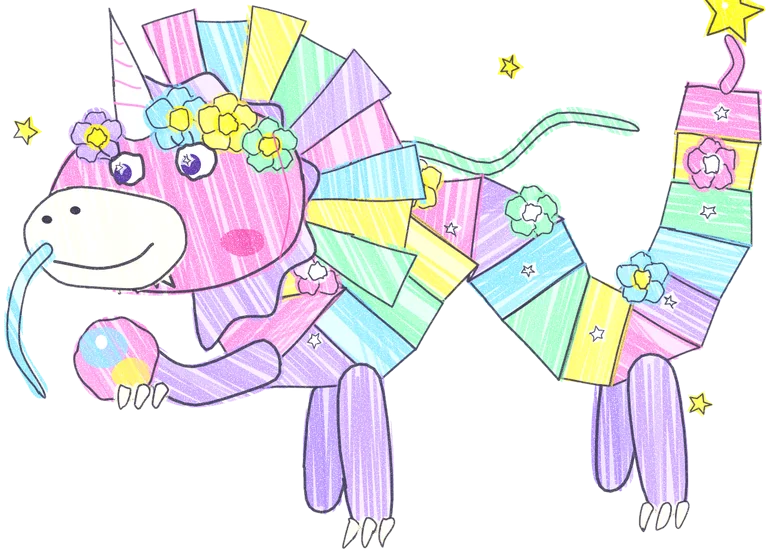
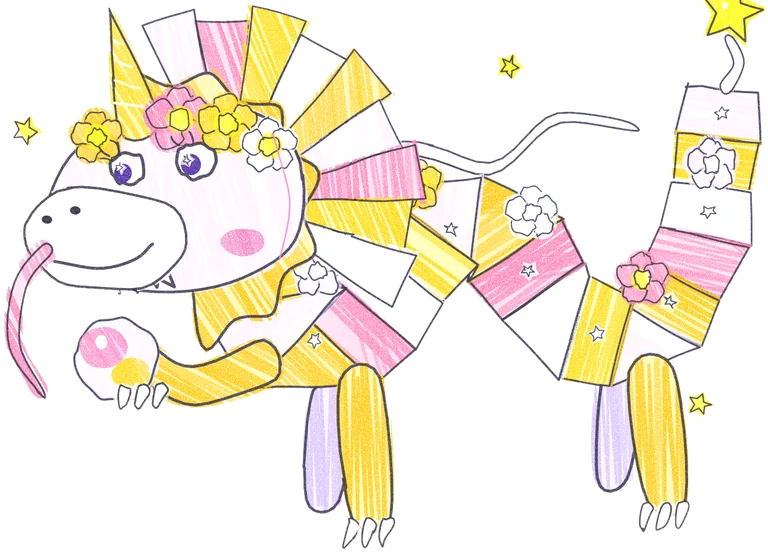
Paint the fairy dragon in pearl and gold
Its pastel colours were the very ones of Libellune's stained glass. The
owner picked pearl and gold from three palettes; the three stages now
share one palette (DRAGON in tools/redraws/plissou.ts).

diff --git a/tools/redraws/festivouivre.ts b/tools/redraws/festivouivre.ts
@@ -1,6 +1,6 @@
 import type { Crayon, P, Redraw } from './crayon.ts';
 import { star } from './lumignon.ts';
-import { accordion, charm, flower, horn } from './plissou.ts';
+import { DRAGON, accordion, charm, flower, horn } from './plissou.ts';
 
 /** A pleated paper fan opening from (x, y), from angle a0 to a1 (degrees), its folds in turn of colour. */
 function fan(c: Crayon, x: number, y: number, r: number, a0: number, a1: number, cols: string[]) {
@@ -14,7 +14,7 @@ function fan(c: Crayon, x: number, y: number, r: number, a0: number, a1: number,
 
 /**
  * Plisserpent grown into a great fairy parade dragon turned to the left: a long, thick accordion body dancing in
- * a wave, rainbow pastel folds with sparkles and paper flowers all along, a pleated paper fan opening behind its
+ * a wave, pearl, gold and rose folds with sparkles and paper flowers all along, a pleated paper fan opening behind its
  * head, four legs with cream claws, a big unicorn horn in a crown of flowers, a cream beard, long ribbons streaming,
  * and the dragon's rainbow pearl held in a front claw.
  */
@@ -22,39 +22,38 @@ export default {
   id: '086', slug: 'festivouivre', seed: 8601, size: [1300, 1150], tilt: -2,
   draw(c) {
     const { shape, stroke, dot, band, potato, spikes } = c;
-    const PINK = '#f28dc0', LILAC = '#b99be8', SKY = '#8fcdf2', MINT = '#94dcaa', BUTTER = '#f9dc6a', CREAM = '#fff0d2';
-    const STAR = '#f7dc35', DEEP = '#d0619d', LEG = '#a385dc';
+    const { BODY, MANE, ACCENT, ACCENT2, ACCENT3, CREAM, STAR, DEEP, LEG_FAR, HORN, STRIPE } = DRAGON;
     // ribbons streaming behind, from the back of its head
-    shape(band([[560, 300], [700, 250], [840, 290], [960, 210], [1080, 230]], 28, 14), MINT, { over: 0 }, { w: 3 });
+    shape(band([[560, 300], [700, 250], [840, 290], [960, 210], [1080, 230]], 28, 14), ACCENT2, { over: 0 }, { w: 3 });
     // the far legs, behind
-    shape(band([[1050, 640], [1030, 820]], 60, 52), LEG, { angle: 90, over: 0 });
-    shape(band([[560, 660], [540, 840]], 60, 52), LEG, { angle: 90, over: 0 });
+    shape(band([[1050, 640], [1030, 820]], 60, 52), LEG_FAR, { angle: 90, over: 0 });
+    shape(band([[560, 660], [540, 840]], 60, 52), LEG_FAR, { angle: 90, over: 0 });
     // the long thick body dancing in a wave, tail first: rainbow folds, sparkles and stars along it
     const body: P[] = [[1240, 170], [1200, 420], [1090, 600], [960, 560], [860, 400], [740, 380], [640, 500], [540, 600], [460, 520], [440, 420]];
-    accordion(c, body, 17, 120, 220, [PINK, BUTTER, MINT, SKY, LILAC], (k, [x, y], w) => {
+    accordion(c, body, 17, 120, 220, [BODY, ACCENT3, ACCENT2, ACCENT, MANE], (k, [x, y], w) => {
       if (k % 2 === 0) shape(star(x, y, 12, k * 0.4), '#ffffff', { over: 0, wash: 1 }, { w: 2 }, false);
-      if (k % 3 === 2) flower(c, x + 8, y - w / 2 - 8, 40, [PINK, SKY, MINT, BUTTER][((k / 3) | 0) % 4], k % 2 ? STAR : '#ffffff');
+      if (k % 3 === 2) flower(c, x + 8, y - w / 2 - 8, 40, [BODY, ACCENT, ACCENT2, ACCENT3][((k / 3) | 0) % 4], k % 2 ? STAR : '#ffffff');
     });
-    charm(c, 1240, 170, 1.4, STAR, PINK);
+    charm(c, 1240, 170, 1.4, STAR, BODY);
     // the near legs, cream claws
     for (const [x0, y0, x1, y1] of [[1100, 640, 1120, 860], [610, 640, 620, 870]] as const) {
-      shape(band([[x0, y0], [x1, y1]], 70, 62), LILAC, { angle: 90, over: 0 });
+      shape(band([[x0, y0], [x1, y1]], 70, 62), MANE, { angle: 90, over: 0 });
       for (const dx of [-30, 0, 30]) shape(band([[x1 + dx, y1 + 10], [x1 + dx - 14, y1 + 46]], 18, 8), CREAM, { over: 0 }, { w: 3 });
     }
     // a pleated paper fan opening behind its head like a frill, then the scalloped mane
-    fan(c, 400, 330, 330, -115, 35, [PINK, SKY, BUTTER, MINT, LILAC]);
+    fan(c, 400, 330, 330, -115, 35, [BODY, ACCENT, ACCENT3, ACCENT2, MANE]);
     const mane: P[] = [];
     for (let k = 0; k <= 12; k++) { const a = -1.9 + k * 0.28, r = k % 2 ? 205 : 235; mane.push([320 + Math.cos(a) * r, 340 + Math.sin(a) * r]); }
-    shape([...mane, [320, 340]], LILAC, { angle: 60, over: 0 });
+    shape([...mane, [320, 340]], MANE, { angle: 60, over: 0 });
     // the far front leg holding up the rainbow pearl
-    shape(band([[460, 600], [330, 640], [250, 600]], 66, 56), LILAC, { angle: 30, over: 0 });
-    shape(potato(200, 590, 70, 70, 12, 0.03), PINK, { angle: 60, over: 0 }, { w: 4 });
-    c.tint(potato(180, 570, 40, 36, 8, 0.1), SKY, { gap: 3.2 });
-    c.tint(potato(225, 615, 32, 28, 8, 0.1), BUTTER, { gap: 3.2 });
+    shape(band([[460, 600], [330, 640], [250, 600]], 66, 56), MANE, { angle: 30, over: 0 });
+    shape(potato(200, 590, 70, 70, 12, 0.03), BODY, { angle: 60, over: 0 }, { w: 4 });
+    c.tint(potato(180, 570, 40, 36, 8, 0.1), ACCENT, { gap: 3.2 });
+    c.tint(potato(225, 615, 32, 28, 8, 0.1), ACCENT3, { gap: 3.2 });
     dot(175, 560, 10, 12, '#ffffff');
     for (const dx of [-36, -6, 24]) shape(band([[250 + dx, 640], [240 + dx, 670]], 18, 8), CREAM, { over: 0 }, { w: 3 });
     // the big head: long snout, cream muzzle and a soft cream beard, a rosy cheek
-    shape([[90, 330], [150, 230], [290, 170], [440, 180], [520, 270], [510, 400], [420, 460], [270, 480], [130, 450], [70, 390]], PINK, { angle: 75, over: 0.55, press: 1.05 });
+    shape([[90, 330], [150, 230], [290, 170], [440, 180], [520, 270], [510, 400], [420, 460], [270, 480], [130, 450], [70, 390]], BODY, { angle: 75, over: 0.55, press: 1.05 });
     shape(spikes([[300, 470], [210, 480], [130, 460]], 3, 50).concat([[220, 440]]), CREAM, { angle: 90, over: 0 }, {}, false);
     shape([[60, 350], [130, 300], [290, 330], [320, 410], [250, 470], [120, 460], [60, 410]], CREAM, { angle: 80, over: 0.2 }, { w: 4 });
     c.tint(potato(420, 400, 36, 24, 8, 0.1), DEEP, { gap: 3 });
@@ -62,8 +61,8 @@ export default {
     dot(138, 336, 9, 7);
     stroke([[100, 420], [170, 438], [240, 420], [270, 400]], { w: 5 });
     // a big unicorn horn, and a crown of paper flowers round it
-    horn(c, [250, 200], [215, 20], 66, '#fff6e6', PINK);
-    for (const [x, y, r, col] of [[320, 190, 50, SKY], [400, 200, 46, BUTTER], [470, 240, 42, MINT], [180, 215, 40, LILAC]] as const) flower(c, x, y, r, col, STAR);
+    horn(c, [250, 200], [215, 20], 66, HORN, STRIPE);
+    for (const [x, y, r, col] of [[320, 190, 50, ACCENT], [400, 200, 46, ACCENT3], [470, 240, 42, ACCENT2], [180, 215, 40, MANE]] as const) flower(c, x, y, r, col, STAR);
     // starry eyes, lashes, sure of itself
     c.paper(potato(230, 270, 30, 26, 8, 0.05));
     c.paper(potato(345, 260, 34, 30, 8, 0.05));
@@ -73,7 +72,7 @@ export default {
     shape(star(330, 258, 9, 0.3), '#ffffff', { over: 0, wash: 1 }, { w: 1.5 }, false);
     for (const [x0, y0, x1, y1] of [[200, 250, 186, 232], [218, 245, 212, 226], [318, 236, 306, 216], [340, 231, 336, 210]] as const) stroke([[x0, y0], [x1, y1]], { w: 3.5 });
     // long whiskers, ribbons floating down
-    shape(band([[90, 400], [40, 460], [30, 560], [70, 640]], 24, 12), SKY, { over: 0 }, { w: 3 });
+    shape(band([[90, 400], [40, 460], [30, 560], [70, 640]], 24, 12), ACCENT, { over: 0 }, { w: 3 });
     stroke([[480, 220], [500, 330], [480, 430]], { w: 3, col: DEEP });
     // sparkles round it
     for (const [x, y, r] of [[60, 200, 22], [140, 760, 18], [1180, 700, 20], [880, 120, 18]] as const) shape(star(x, y, r, 0.4), STAR, { over: 0 }, { w: 2.5 }, false);

diff --git a/tools/redraws/plissou.ts b/tools/redraws/plissou.ts
@@ -43,6 +43,16 @@ export function charm(c: Crayon, x: number, y: number, s: number, col: string, r
   c.dot(x + 4 * s, y - 100 * s, 4 * s, 4 * s, '#ffffff');
 }
 
+/**
+ * The fairy paper dragon's colours, shared by its three stages (Plissou, Plisserpent, Festivouivre): pearl and gold
+ * (the owner picked them; pastels were too close to Libellune's stained glass). The body and head, the mane and legs,
+ * three accents (whiskers, flowers, folds), the muzzle, cheeks, far legs and the horn.
+ */
+export const DRAGON = {
+  BODY: '#e6daf6', MANE: '#e8b93a', ACCENT: '#f08aa6', ACCENT2: '#ffffff', ACCENT3: '#f2c43a', CREAM: '#fff8e6',
+  STAR: '#f7dc35', DEEP: '#d58aa8', LEG_FAR: '#c4b2e6', HORN: '#f2c43a', STRIPE: '#ffffff',
+};
+
 /** A unicorn's spiral horn from `base` to `tip`, striped like a candy stick. */
 export function horn(c: Crayon, base: P, tip: P, w: number, col: string, stripe: string) {
   c.shape(c.band([base, tip], w, 6), col, { angle: 60, over: 0 }, { w: 3.5 });
@@ -65,40 +75,40 @@ export function flower(c: Crayon, x: number, y: number, r: number, petal: string
 }
 
 /**
- * A baby fairy dragon folded out of pastel tissue paper, turned to the left: a big round pink head with a cream
- * muzzle, a little striped unicorn horn, a paper flower by its ear, a soft scalloped mane, big starry eyes, a short
- * accordion body of pink and lilac folds and a star charm at the end of its tail, like a magic wand.
+ * A baby fairy dragon folded out of pearly paper, turned to the left: a big round pearl-white head with a cream
+ * muzzle, a little striped gold unicorn horn, a paper flower by its ear, a soft gold mane, big starry eyes, a short
+ * accordion body of pearl and gold folds and a star charm at the end of its tail, like a magic wand.
  */
 export default {
   id: '084', slug: 'plissou', seed: 8401, size: [1000, 880], tilt: -3,
   draw(c) {
     const { shape, stroke, dot, band, potato } = c;
-    const PINK = '#f28dc0', LILAC = '#b99be8', CREAM = '#fff0d2', SKY = '#8fcdf2', STAR = '#f7dc35', DEEP = '#d0619d';
+    const { BODY, MANE, ACCENT, CREAM, STAR, DEEP, HORN, STRIPE } = DRAGON;
     // the short accordion body, tail first, and the star charm at the tip of its tail
-    accordion(c, [[880, 380], [810, 470], [690, 520], [470, 480]], 7, 110, 170, [PINK, LILAC]);
-    charm(c, 890, 380, 1, STAR, SKY);
+    accordion(c, [[880, 380], [810, 470], [690, 520], [470, 480]], 7, 110, 170, [BODY, MANE]);
+    charm(c, 890, 380, 1, STAR, ACCENT);
     // little paws under it
-    shape(band([[620, 560], [630, 640]], 44, 40), LILAC, { angle: 90, over: 0 });
+    shape(band([[620, 560], [630, 640]], 44, 40), MANE, { angle: 90, over: 0 });
     shape(potato(640, 650, 34, 20, 7, 0.06), CREAM, { over: 0 });
-    shape(band([[460, 560], [450, 650]], 48, 44), LILAC, { angle: 90, over: 0 });
+    shape(band([[460, 560], [450, 650]], 48, 44), MANE, { angle: 90, over: 0 });
     shape(potato(440, 660, 38, 22, 7, 0.06), CREAM, { over: 0 });
     // a soft scalloped mane round the back of its head, and the far horn, behind
     const mane: P[] = [];
     for (let k = 0; k <= 10; k++) { const a = -1.9 + k * 0.33, r = k % 2 ? 205 : 230; mane.push([360 + Math.cos(a) * r, 400 + Math.sin(a) * r]); }
-    shape([...mane, [360, 400]], LILAC, { angle: 60, over: 0 });
+    shape([...mane, [360, 400]], MANE, { angle: 60, over: 0 });
     // the big round head, a cream muzzle, rosy cheeks
-    shape(potato(340, 400, 200, 175, 12, 0.04), PINK, { angle: 75, over: 0.5 });
+    shape(potato(340, 400, 200, 175, 12, 0.04), BODY, { angle: 75, over: 0.5 });
     shape([[150, 430], [200, 390], [320, 420], [360, 500], [300, 560], [190, 560], [140, 500]], CREAM, { angle: 80, over: 0.2 }, { w: 4 });
     c.tint(potato(395, 470, 34, 22, 8, 0.1), DEEP, { gap: 3 });
     dot(175, 440, 8, 6);
     dot(225, 432, 8, 6);
     stroke([[180, 515], [230, 532], [280, 518]], { w: 4.5 });
     // short ribbon whiskers
-    shape(band([[160, 465], [100, 445], [60, 480], [50, 530]], 22, 12), SKY, { over: 0 }, { w: 3 });
-    shape(band([[170, 525], [110, 555], [95, 600], [110, 640]], 22, 12), SKY, { over: 0 }, { w: 3 });
+    shape(band([[160, 465], [100, 445], [60, 480], [50, 530]], 22, 12), ACCENT, { over: 0 }, { w: 3 });
+    shape(band([[170, 525], [110, 555], [95, 600], [110, 640]], 22, 12), ACCENT, { over: 0 }, { w: 3 });
     // a little unicorn horn on its brow, a paper flower by its ear
-    horn(c, [300, 250], [270, 130], 46, '#fff6e6', PINK);
-    flower(c, 430, 255, 46, SKY, STAR);
+    horn(c, [300, 250], [270, 130], 46, HORN, STRIPE);
+    flower(c, 430, 255, 46, ACCENT, STAR);
     // big starry eyes with lashes, looking left
     c.paper(potato(250, 330, 34, 38, 8, 0.05));
     c.paper(potato(360, 320, 38, 42, 8, 0.05));

diff --git a/tools/redraws/plisserpent.ts b/tools/redraws/plisserpent.ts
@@ -1,49 +1,49 @@
 import type { P, Redraw } from './crayon.ts';
 import { star } from './lumignon.ts';
-import { accordion, charm, flower, horn } from './plissou.ts';
+import { DRAGON, accordion, charm, flower, horn } from './plissou.ts';
 
 /**
- * Plissou grown long: a fairy paper dragon turned to the left, its accordion body curving in an S, pink, lilac and
- * sky-blue folds with paper flowers and little stars along its back, two pairs of little legs, a longer head held
+ * Plissou grown long: a fairy paper dragon turned to the left, its accordion body curving in an S, pearl, gold and
+ * rose folds with paper flowers and little stars along its back, two pairs of little legs, a longer head held
  * high with a striped unicorn horn, a flower by its ear, a scalloped mane and long ribbon whiskers floating round it.
  */
 export default {
   id: '085', slug: 'plisserpent', seed: 8501, size: [1200, 1000], tilt: -2,
   draw(c) {
     const { shape, stroke, dot, band, potato } = c;
-    const PINK = '#f28dc0', LILAC = '#b99be8', SKY = '#8fcdf2', CREAM = '#fff0d2', STAR = '#f7dc35', DEEP = '#d0619d';
+    const { BODY, MANE, ACCENT, CREAM, STAR, DEEP, LEG_FAR, HORN, STRIPE } = DRAGON;
     // the far legs, behind the body
-    shape(band([[880, 640], [900, 760]], 46, 40), '#a98fd8', { angle: 90, over: 0 });
-    shape(band([[560, 600], [560, 720]], 46, 40), '#a98fd8', { angle: 90, over: 0 });
+    shape(band([[880, 640], [900, 760]], 46, 40), LEG_FAR, { angle: 90, over: 0 });
+    shape(band([[560, 600], [560, 720]], 46, 40), LEG_FAR, { angle: 90, over: 0 });
     // the long S of folds, tail first, little stars along its back, a star charm at its tail
     const body: P[] = [[1120, 300], [1090, 470], [960, 610], [770, 650], [610, 590], [510, 470], [440, 380]];
-    accordion(c, body, 12, 110, 170, [PINK, LILAC, SKY], (k, [x, y], w) => {
-      if (k % 3 === 1) flower(c, x + 6, y - w / 2 - 6, 34, [PINK, SKY, LILAC][((k / 3) | 0) % 3] === PINK ? SKY : PINK, STAR);
+    accordion(c, body, 12, 110, 170, [BODY, MANE, ACCENT], (k, [x, y], w) => {
+      if (k % 3 === 1) flower(c, x + 6, y - w / 2 - 6, 34, [BODY, ACCENT, MANE][((k / 3) | 0) % 3] === BODY ? ACCENT : BODY, STAR);
       if (k % 3 === 2) shape(star(x + 4, y - w / 2 - 10, 20, k * 0.3), STAR, { over: 0 }, { w: 2.5 }, false);
     });
-    charm(c, 1120, 300, 1.15, STAR, PINK);
+    charm(c, 1120, 300, 1.15, STAR, BODY);
     // the near legs, cream paws
     for (const [x0, y0, x1, y1] of [[930, 650, 950, 780], [620, 610, 610, 740]] as const) {
-      shape(band([[x0, y0], [x1, y1]], 52, 46), LILAC, { angle: 90, over: 0 });
+      shape(band([[x0, y0], [x1, y1]], 52, 46), MANE, { angle: 90, over: 0 });
       shape(potato(x1 - 6, y1 + 12, 40, 22, 7, 0.06), CREAM, { over: 0 });
     }
     // the scalloped mane and the far horn, behind the head
     const mane: P[] = [];
     for (let k = 0; k <= 10; k++) { const a = -1.8 + k * 0.32, r = k % 2 ? 215 : 245; mane.push([330 + Math.cos(a) * r, 330 + Math.sin(a) * r]); }
-    shape([...mane, [330, 330]], LILAC, { angle: 60, over: 0 });
+    shape([...mane, [330, 330]], MANE, { angle: 60, over: 0 });
     // long ribbon whiskers floating behind and round
-    shape(band([[150, 360], [80, 330], [40, 380], [60, 450], [30, 520]], 24, 12), SKY, { over: 0 }, { w: 3 });
+    shape(band([[150, 360], [80, 330], [40, 380], [60, 450], [30, 520]], 24, 12), ACCENT, { over: 0 }, { w: 3 });
     // the head held high: longer snout, cream muzzle, rosy cheek
-    shape([[110, 340], [160, 260], [280, 200], [420, 200], [490, 280], [480, 400], [400, 450], [260, 460], [140, 430], [90, 390]], PINK, { angle: 75, over: 0.5 });
+    shape([[110, 340], [160, 260], [280, 200], [420, 200], [490, 280], [480, 400], [400, 450], [260, 460], [140, 430], [90, 390]], BODY, { angle: 75, over: 0.5 });
     shape([[80, 360], [140, 320], [280, 350], [310, 420], [250, 470], [130, 460], [80, 420]], CREAM, { angle: 80, over: 0.2 }, { w: 4 });
     c.tint(potato(390, 400, 34, 22, 8, 0.1), DEEP, { gap: 3 });
     dot(108, 365, 8, 6);
     dot(150, 352, 8, 6);
     stroke([[120, 430], [180, 445], [240, 428]], { w: 4.5 });
-    shape(band([[120, 420], [60, 450], [40, 520], [80, 580], [60, 640]], 24, 12), PINK, { over: 0 }, { w: 3 });
+    shape(band([[120, 420], [60, 450], [40, 520], [80, 580], [60, 640]], 24, 12), BODY, { over: 0 }, { w: 3 });
     // a longer unicorn horn on its brow, a paper flower by its ear
-    horn(c, [270, 215], [235, 60], 56, '#fff6e6', PINK);
-    flower(c, 420, 205, 52, SKY, STAR);
+    horn(c, [270, 215], [235, 60], 56, HORN, STRIPE);
+    flower(c, 420, 205, 52, ACCENT, STAR);
     // starry eyes with lashes
     c.paper(potato(240, 285, 30, 30, 8, 0.05));
     c.paper(potato(345, 275, 34, 34, 8, 0.05));

diff --git a/src/data/creatures.ts b/src/data/creatures.ts
@@ -1142,8 +1142,8 @@ export const CREATURES: SpeciesDef[] = [
     learnset: [[1, 'bousculade'], [1, 'grondement'], [5, 'micro-magique'], [9, 'souffle-dragon'], [13, 'pirouette'], [19, 'griffe-dragon'],
       [23, 'calin-lunaire'], [27, 'coup-de-boule'], [29, 'grand-defile']],
     dex: L(
-      'Un petit dragon plié dans du papier de soie rose. Sa petite corne de licorne fait pousser des fleurs en papier partout où il passe.',
-      'A little dragon folded from pink tissue paper. Its little unicorn horn makes paper flowers grow wherever it goes.',
+      'Un petit dragon plié dans du papier nacré. Sa petite corne dorée fait pousser des fleurs en papier partout où il passe.',
+      'A little dragon folded from pearly paper. Its little golden horn makes paper flowers grow wherever it goes.',
     ),
   },
   {

diff --git a/docs/story.md b/docs/story.md
@@ -510,9 +510,9 @@ a broccoli line (replaced by the stapler crocodile) and asked for the mammoth to
   Allumbattant on Route 9. Juggler Paco (a fourth Bestiole), Hector, Grand Master Ambre (in place of Canarmure).
 - Lumignon → Projétoile (Electric/Psychic, L26): a bedroom night-light, then a star projector. Route 3 and
   Route 4 at night; Projétoile on Route 8 at night. Kid Lise, Medium Opale.
-- Plissou → Plisserpent → Festivouivre (Dragon/Fairy, L30/L44, rare): a fairy parade dragon of folded tissue
-  paper, with a unicorn horn and paper flowers (the owner found the first red-and-gold version not fairy enough,
-  then butterfly wings too close to Libellune). Route 7
+- Plissou → Plisserpent → Festivouivre (Dragon/Fairy, L30/L44, rare): a fairy parade dragon of folded pearly
+  paper, gold and rose, with a unicorn horn and paper flowers (the owner found the first red-and-gold version not
+  fairy enough, then butterfly wings and pastel colours too close to Libellune, and picked pearl and gold). Route 7
   (rare); Plisserpent in the Sketch Forest (rare). Sparkler Mia, Sleepwalker Gaston, Grand Master Célestine.
 - Globargot (Ice/Psychic, rare): a snail with a snow globe for a shell (a tiny house inside: a dream clue).
   Lighthouse island; Dreamer Mila.
